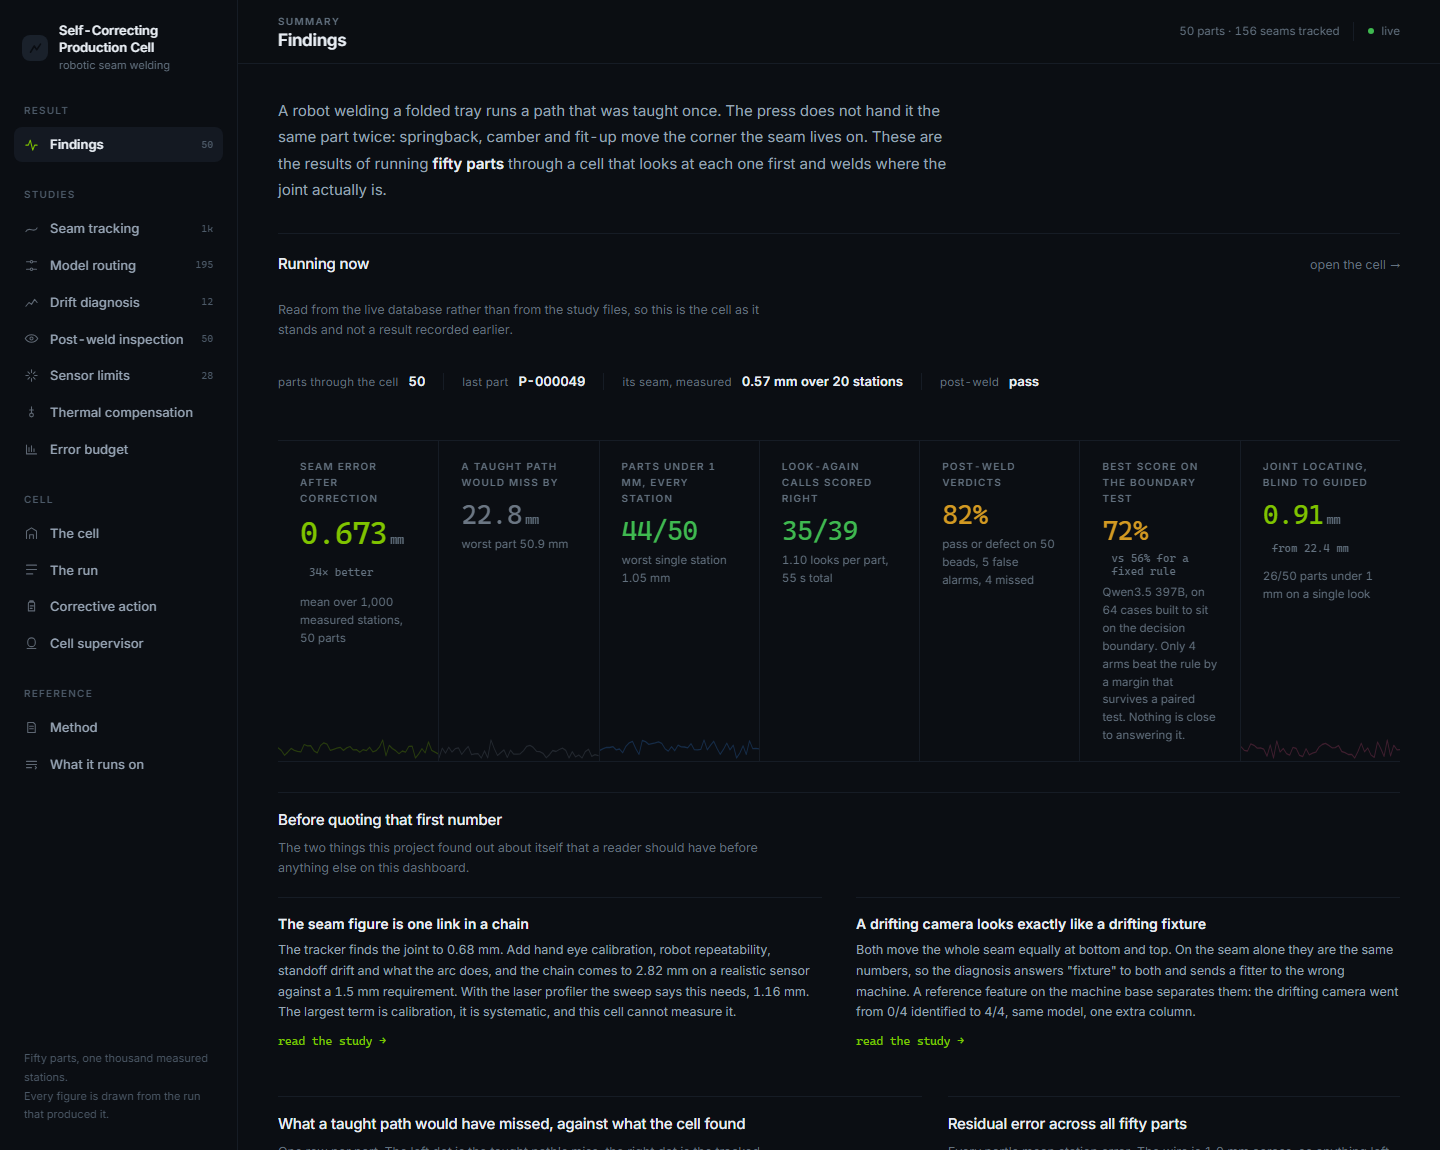
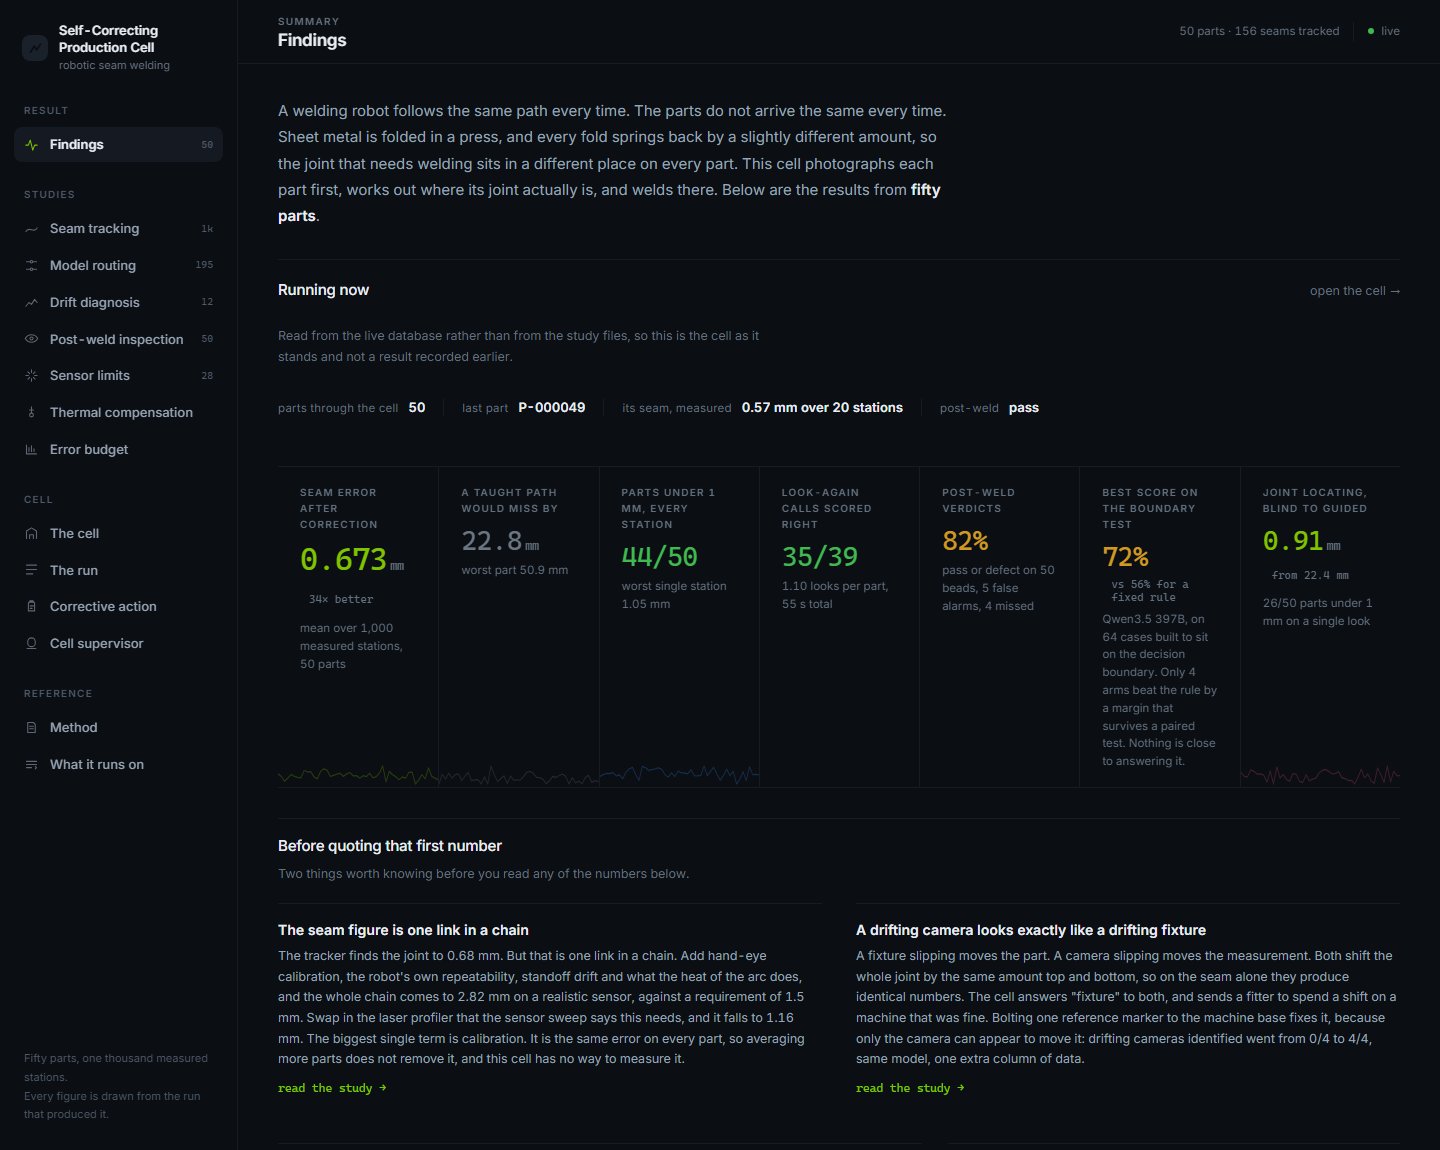
Write it in plain English instead of aphorisms
"Springback, camber and fit-up move the corner the seam lives on" is showing
off, not explaining. Three pieces of jargon in one clause, an inverted
construction, and a reader who does not already know what the project does still
does not know after reading it. Every page opened like that.

So all thirteen page introductions are rewritten to say what happens, in order,
in short sentences: a robot follows one fixed path, the parts are not identical
because folded sheet springs back differently every time, so the joint moves and
the cell photographs each part to find it. Same for the README's problem
section, which now explains the bow as its own paragraph rather than burying it
in "worse, the seam is not merely displaced, it is bent".

Thirteen card notes rewritten too, mostly the ones shaped like proverbs. "A
verdict with no reasoning attached is a verdict nobody can audit" says less than
"what each model said, in its own words".

One of them was not just obscure but broken: "With the laser profiler the sweep
says this needs, 1.16 mm" is missing a verb and has a comma where none belongs.
It had been on the summary page since the error budget went in.

No numbers changed. 276 tests, 14 pages, 36 charts, no console errors.

diff --git a/dashboard/static/pages/overview.js b/dashboard/static/pages/overview.js
@@ -57,10 +57,11 @@ function liveBand() {
 export function render() {
   return `
     <p class="lede">
-      A robot welding a folded tray runs a path that was taught once. The press does
-      not hand it the same part twice: springback, camber and fit-up move the corner
-      the seam lives on. These are the results of running <b>fifty parts</b> through a
-      cell that looks at each one first and welds where the joint actually is.
+      A welding robot follows the same path every time. The parts do not arrive the
+      same every time. Sheet metal is folded in a press, and every fold springs back by a
+      slightly different amount, so the joint that needs welding sits in a different place
+      on every part. This cell photographs each part first, works out where its joint
+      actually is, and welds there. Below are the results from <b>fifty parts</b>.
     </p>
     <div id="ov-live"></div>
     <div class="tiles" id="ov-tiles"></div>
@@ -68,8 +69,7 @@ export function render() {
     <div class="grid">
       <div class="card w12" id="bg-honest">
         <header><h2>Before quoting that first number</h2></header>
-        <div class="hint">The two things this project found out about itself that a reader
-          should have before anything else on this dashboard.</div>
+        <div class="hint">Two things worth knowing before you read any of the numbers below.</div>
         <div id="ov-caveats"></div>
       </div>
     </div>
@@ -96,8 +96,8 @@ export function render() {
 
       <div class="card w12">
         <header><h2>Every claim on this dashboard, and what it was scored against</h2></header>
-        <div class="hint">Nothing here is a demo reading of itself. Each study has a ground truth
-          that was decided before the model was asked.</div>
+        <div class="hint">Every study is scored against a correct answer that was fixed before the
+          model was asked. None of this is the cell marking its own work.</div>
         <div id="ov-studies"></div>
       </div>
     </div>`;
@@ -127,12 +127,14 @@ function caveats(ev) {
     const best = b.budgets.find((x) => x.label.startsWith("Laser"));
     cards.push([
       "The seam figure is one link in a chain",
-      `The tracker finds the joint to ${V.fmt(b.budgets[0].total_mm, 2)} mm. Add hand eye `
-      + `calibration, robot repeatability, standoff drift and what the arc does, and the `
-      + `chain comes to ${V.fmt(realistic.total_mm, 2)} mm on a realistic sensor against a `
-      + `${b.industry_requirement_mm} mm requirement. With the laser profiler the sweep says `
-      + `this needs, ${V.fmt(best.total_mm, 2)} mm. The largest term is calibration, it is `
-      + `systematic, and this cell cannot measure it.`,
+      `The tracker finds the joint to ${V.fmt(b.budgets[0].total_mm, 2)} mm. But that is `
+      + `one link in a chain. Add hand-eye calibration, the robot's own repeatability, `
+      + `standoff drift and what the heat of the arc does, and the whole chain comes to `
+      + `${V.fmt(realistic.total_mm, 2)} mm on a realistic sensor, against a requirement of `
+      + `${b.industry_requirement_mm} mm. Swap in the laser profiler that the sensor sweep `
+      + `says this needs, and it falls to ${V.fmt(best.total_mm, 2)} mm. The biggest single `
+      + `term is calibration. It is the same error on every part, so averaging more parts `
+      + `does not remove it, and this cell has no way to measure it.`,
       "#/budget",
     ]);
   }
@@ -141,11 +143,13 @@ function caveats(ev) {
   if (c && c.available) {
     cards.push([
       "A drifting camera looks exactly like a drifting fixture",
-      `Both move the whole seam equally at bottom and top. On the seam alone they are the `
-      + `same numbers, so the diagnosis answers "fixture" to both and sends a fitter to the `
-      + `wrong machine. A reference feature on the machine base separates them: the drifting `
-      + `camera went from ${c.camera_without.correct}/${c.camera_without.n} identified to `
-      + `${c.camera_with.correct}/${c.camera_with.n}, same model, one extra column.`,
+      `A fixture slipping moves the part. A camera slipping moves the measurement. Both `
+      + `shift the whole joint by the same amount top and bottom, so on the seam alone they `
+      + `produce identical numbers. The cell answers "fixture" to both, and sends a fitter `
+      + `to spend a shift on a machine that was fine. Bolting one reference marker to the `
+      + `machine base fixes it, because only the camera can appear to move it: drifting `
+      + `cameras identified went from ${c.camera_without.correct}/${c.camera_without.n} to `
+      + `${c.camera_with.correct}/${c.camera_with.n}, same model, one extra column of data.`,
       "#/budget",
     ]);
   }

diff --git a/dashboard/static/pages/inspection.js b/dashboard/static/pages/inspection.js
@@ -20,10 +20,10 @@ const DEFECT_LABEL = {
 export function render() {
   return `
     <p class="lede">
-      After the arc stops the bead is photographed and judged. The number that makes this
-      mean anything is that every defect was injected on purpose, so each verdict is scored
-      against a record written before the model saw the image. A shop cares which way the
-      mistake goes: a false alarm scraps a good part, a miss ships a bad one.
+      After the arc stops, the weld bead is photographed and judged. Every defect
+      was put there deliberately, so each verdict can be checked against a record written
+      before the model saw the picture. Two kinds of mistake matter differently: a false
+      alarm throws away a good part, and a miss ships a bad one.
     </p>
 
     <div class="tiles" id="in-tiles"></div>
@@ -38,7 +38,7 @@ export function render() {
 
       <div class="card w6">
         <header><h2>Naming the defect is harder than spotting one</h2></header>
-        <div class="hint">Both numbers are real and they are not the same claim. The cell uses the
+        <div class="hint">Both numbers are real, but they are not the same claim. The cell uses the
           pass/defect call to route a part; the named defect is advice for the person who fixes it.</div>
         <div id="in-split"></div>
         <footer id="in-split-meta"></footer>
@@ -58,8 +58,8 @@ export function render() {
       <div class="card w12">
         <header><h2>Two vision models, the same score, opposite behaviour</h2></header>
         <div class="hint">The account serves two models that can see. On these fifty beads they
-          name the same number of defects correctly. That number means completely different
-          things, which is the argument for never quoting a single accuracy figure.</div>
+          name the same number of defects correctly. The same number means very different things for each of them, which is why a
+          single accuracy figure should never be quoted on its own.</div>
         <div id="in-vision"></div>
         <footer id="in-vision-meta"></footer>
       </div>

diff --git a/dashboard/static/pages/method.js b/dashboard/static/pages/method.js
@@ -41,11 +41,11 @@ const STAGES = [
 export function render() {
   return `
     <p class="lede">
-      The problem is not that the robot is inaccurate. It is that the part is not where
-      the program says, because sheet is cut flat, folded, and springs back by an amount
-      that is not the same twice. A taught path welds air on one part and into the corner
-      on the next. Everything below exists to close that loop without touching the arm's
-      own repeatability.
+      The robot is accurate. The problem is that the part is not where the program
+      assumes it is. Sheet metal is cut flat, folded, and springs back by a slightly
+      different amount every time. A fixed taught path welds thin air on one part and into
+      the corner on the next. Everything here exists to close that gap, without touching
+      the robot's own accuracy.
     </p>
 
     <div class="grid">
@@ -56,8 +56,8 @@ export function render() {
 
       <div class="card w6">
         <header><h2>Ground truth, per study</h2></header>
-        <div class="hint">The reason any number on this dashboard means something is that the answer
-          was decided before the model was asked.</div>
+        <div class="hint">Every number on this dashboard means something only because the correct answer
+          was fixed before the model was asked.</div>
         <div id="me-truth"></div>
       </div>
 
@@ -68,8 +68,8 @@ export function render() {
 
       <div class="card w12">
         <header><h2>Does this only work for welding?</h2></header>
-        <div class="hint">Worth answering plainly, because the honest answer is neither yes nor
-          the salesman's no. What generalises is the loop. What does not is every number in it.</div>
+        <div class="hint">Worth answering plainly. The honest answer is not a simple yes, and not the flat
+          no a salesman would give. What generalises is the loop. What does not is every number in it.</div>
         <div id="me-general"></div>
         <footer id="me-general-meta"></footer>
       </div>

diff --git a/dashboard/static/pages/platform.js b/dashboard/static/pages/platform.js
@@ -94,10 +94,10 @@ const ROWS = [
 export function render() {
   return `
     <p class="lede">
-      Four Nemotron sizes are served on Token Factory and this cell uses all four,
-      for different jobs, because measuring them showed they are not interchangeable.
-      Every row below is a call the cell actually makes. The last column is the
-      measurement that decided it, not a preference.
+      Four sizes of Nemotron are served on Token Factory, and this cell uses all
+      four for different jobs, because testing showed they are not interchangeable. Every
+      row below is a call the cell actually makes. The last column is the measurement that
+      decided it, not a preference.
     </p>
 
     <div class="tiles" id="pf-tiles"></div>
@@ -105,8 +105,8 @@ export function render() {
     <div class="grid">
       <div class="card w12">
         <header><h2>Every model call this cell makes</h2></header>
-        <div class="hint">Nothing here is aspirational. If a row is on this page the code
-          calls it, and the page that measured it is linked from the findings page.</div>
+        <div class="hint">Every row is something the code actually calls, not something planned. The page
+          that measured each one is linked from Findings.</div>
         <div id="pf-table"></div>
       </div>
 
@@ -120,8 +120,8 @@ export function render() {
 
       <div class="card w6">
         <header><h2>What the platform would not do</h2></header>
-        <div class="hint">Recorded because the limits shaped the build, and because a reader
-          deciding whether to use the same platform needs them more than they need the wins.</div>
+        <div class="hint">These limits shaped what got built. Anyone deciding whether to use the same
+          platform needs to know them more than they need to hear the successes.</div>
         <div id="pf-limits"></div>
       </div>
     </div>`;

diff --git a/dashboard/static/pages/budget.js b/dashboard/static/pages/budget.js
@@ -14,13 +14,13 @@ export const meta = {
 export function render() {
   return `
     <p class="lede">
-      The seam study says the tracker finds the joint to <b>0.68 mm</b>. That is a true
-      number about one link in a chain, and quoting it as the accuracy of the cell would
-      be a misrepresentation. Published work on vision guided welding is explicit that
-      what you get depends on the whole chain: sensor, calibration, standoff, part
-      surface, robot repeatability. This repository measured two of those carefully and
-      was silent about the rest. Here is the whole thing, with the provenance of every
-      term on it.
+      The seam study says the cell finds the joint to 0.68 mm. That number is true,
+      and it covers one link in a chain. Quoting it as the accuracy of the cell would be
+      misleading. Published work on vision guided welding is clear that what you actually
+      get depends on the whole chain: the sensor, the calibration, the standoff, the part
+      surface, the robot's own repeatability. This project measured two of those carefully
+      and said nothing about the rest. Here is the whole chain, with a source for every
+      term in it.
     </p>
 
     <div class="tiles" id="bg-tiles"></div>
@@ -30,7 +30,7 @@ export function render() {
         <header><h2>The chain, under four sets of assumptions</h2></header>
         <div class="hint">Systematic terms add, because an offset that is the same on every
           part is not averaged away by making more parts. Independent random terms combine in
-          quadrature. Which of the two a term is decides whether it matters.</div>
+          quadrature. Whether a term is systematic or random decides how much it ends up mattering.</div>
         <div id="bg-chain"></div>
         <div class="legend">
           <span><i style="background:var(--series-1)"></i>measured in this repository</span>

diff --git a/dashboard/static/pages/briefs.js b/dashboard/static/pages/briefs.js
@@ -29,12 +29,12 @@ const TRIGGER_LABEL = {
 export function render() {
   return `
     <p class="lede">
-      A measurement that nobody can act on is a measurement nobody uses. When the cell
-      refuses a joint, names a drifting machine, or keeps calling the same defect, it
-      writes the question out of its own numbers, fetches the documents that answer it,
-      and turns them into steps somebody can take at a machine in the next ten minutes.
-      Every claim carries the source it came from, because an instruction an operator
-      cannot check is an instruction nobody is allowed to follow.
+      A measurement nobody can act on gets ignored. So when the cell refuses a joint,
+      names a drifting machine, or keeps reporting the same defect, it writes the question
+      out of its own numbers, searches published welding guidance for the answer, and turns
+      that into steps somebody can follow at the machine. Every statement carries a link to
+      where it came from, because an operator should not be asked to follow an instruction
+      they cannot check.
     </p>
 
     <div class="tiles" id="br-tiles"></div>
@@ -42,8 +42,9 @@ export function render() {
     <div class="grid">
       <div class="card w12">
         <header><h2>How a brief is built</h2></header>
-        <div class="hint">Three steps, each one somebody else's job. No model is asked what
-          is wrong; the measurement already says.</div>
+        <div class="hint">Three steps, each one a different job. The measurement already says what is
+          wrong, so no model is asked to diagnose. The model's job is to work out what to
+          do about it.</div>
         <div id="br-how"></div>
       </div>
 

diff --git a/dashboard/static/pages/limits.js b/dashboard/static/pages/limits.js
@@ -43,12 +43,12 @@ const AXIS_WHAT = {
 export function render() {
   return `
     <p class="lede">
-      Every seam number on this dashboard was measured on exact rendered depth, which
-      makes them ceilings rather than results. A joint finder scored on perfect input
-      has not been scored on anything. So the whole fifty-part campaign was run again
-      at each of twenty-eight sensor degradations, and the error followed until it broke.
-      The threshold was fixed before the sweep ran: the wire is <b>1.0 mm</b> across, so
-      a path further than that from the joint is not on the joint.
+      Every seam number on this dashboard was measured on perfect depth data. That
+      makes them best cases rather than results, because a joint finder tested on perfect
+      input has not really been tested. So the fifty-part run was repeated at twenty-eight
+      levels of sensor degradation, to find where it breaks. The pass mark was fixed before
+      the sweep started: the welding wire is 1.0 mm across, so a path further than that
+      from the joint misses it.
     </p>
 
     <div class="tiles" id="lm-tiles"></div>
@@ -76,8 +76,8 @@ export function render() {
 
       <div class="card w5">
         <header><h2>Whole sensors, every failure mode at once</h2></header>
-        <div class="hint">The single-axis curves are diagnostic. These are the combinations a
-          real camera actually presents.</div>
+        <div class="hint">The curves above change one thing at a time, which is what makes them useful for
+          diagnosis. These are the combinations a real camera actually produces.</div>
         <div id="lm-named"></div>
       </div>
     </div>`;

diff --git a/dashboard/static/pages/routing.js b/dashboard/static/pages/routing.js
@@ -15,11 +15,11 @@ export const meta = {
 export function render() {
   return `
     <p class="lede">
-      After the cell looks at a part it has to answer one question: is this measurement
-      good enough to weld on, or is another look worth the cycle time? The question is
-      cheap, so it goes to the smallest model first. This study asks whether that is
-      defensible, by scoring every arm against what a second look <b>actually</b> did to
-      the fit rather than against a bigger model's opinion.
+      Once the cell has photographed a part it has to decide one thing: is this
+      measurement good enough to weld on, or is it worth taking another look? Another look
+      costs cycle time. The question is cheap to ask, so it goes to the smallest model
+      first. This page tests whether that is the right call, by scoring every model against
+      what a second look actually achieved rather than against a bigger model's opinion.
     </p>
 
     <div class="tiles" id="rt-tiles"></div>
@@ -80,7 +80,8 @@ export function render() {
 
       <div class="card w6">
         <header><h2>What the model said, in its own words</h2></header>
-        <div class="hint">A verdict with no reasoning attached is a verdict nobody can audit.</div>
+        <div class="hint">What each model said, in its own words. A verdict with no reasoning attached
+          cannot be checked by anyone.</div>
         <div id="rt-reasons"></div>
       </div>
     </div>`;

diff --git a/dashboard/static/pages/seam.js b/dashboard/static/pages/seam.js
@@ -16,9 +16,10 @@ export const meta = {
 export function render() {
   return `
     <p class="lede">
-      The corner the seam runs along is not where the program says it is, and it is not
-      straight. Twenty stations are measured on every part, each from the same single
-      look, and each one is scored against the seam's true position in the cell.
+      The joint is the line where two folded panels meet. It is not where the program
+      says it is, and it is not straight. The cell measures it at twenty points along its
+      length, all from a single camera view, and each point is compared against where the
+      joint truly is.
     </p>
 
     <div class="grid">
@@ -37,8 +38,9 @@ export function render() {
 
       <div class="card w4">
         <header><h2>What is left, and why</h2></header>
-        <div class="hint">Correcting the path removes the offset. It cannot remove the bow, because
-          the seam itself is curved. The bow is the floor this method sits on.</div>
+        <div class="hint">Correcting the path removes the offset, but it cannot remove the bow, because
+          the seam itself is curved. That bow is the limit on how accurate this method
+          can get.</div>
         <div id="sm-decomp"></div>
         <footer id="sm-decomp-meta"></footer>
       </div>

diff --git a/dashboard/static/pages/compensation.js b/dashboard/static/pages/compensation.js
@@ -14,11 +14,11 @@ export const meta = {
 export function render() {
   return `
     <p class="lede">
-      The measurement is cold. The weld is not. Heat put into the bottom of the seam
-      rotates both folded sides about their fold lines, so the top of the joint walks
-      inward long before the torch reaches it. A cell that measures a point and then
-      drives to it is aiming at where that point <b>used to be</b>. So the path is
-      offset by the distortion predicted for the moment the arc arrives at each station.
+      The measurement is taken cold. The weld is not. Heat from the arc makes
+      both folded sides rotate about their fold lines, so the top of the joint moves inward
+      before the torch ever reaches it. A cell that measures a point and drives straight to
+      it is aiming at where that point used to be. So the path is shifted in advance, by
+      the amount of distortion expected at the moment the torch arrives at each point.
     </p>
 
     <div class="tiles" id="cp-tiles"></div>

diff --git a/dashboard/static/pages/diagnosis.js b/dashboard/static/pages/diagnosis.js
@@ -21,11 +21,11 @@ const SCENARIO_LABEL = {
 export function render() {
   return `
     <p class="lede">
-      Correcting each part hides the problem that made it. If the press brake is walking,
-      the cell will weld every part correctly and nobody will notice until the angle runs
-      out of correction. So the same measurements are read a second time, across a run,
-      to name the cause. This is the one question where the small model is <b>not</b> good
-      enough, and the study is here because it says so.
+      Correcting every part hides the reason they need correcting. If the press is
+      slowly going out of adjustment, the cell will keep welding parts correctly and nobody
+      finds out until it has drifted too far to correct. So the cell reads the same
+      measurements a second time, across a whole run of parts, and says which machine is at
+      fault. This is the one job the small model cannot do, and this page says so.
     </p>
 
     <div class="tiles" id="dg-tiles"></div>

diff --git a/dashboard/static/pages/supervisor.js b/dashboard/static/pages/supervisor.js
@@ -22,10 +22,10 @@ const PROMPTS = [
 export function render() {
   return `
     <p class="lede">
-      The supervisor has no private copy of anything. It answers by querying the same
-      tables this dashboard draws, and it can search published welding standards when a
-      question needs a number it should not invent. Every answer it gives can be checked
-      against a page you can open yourself.
+      The supervisor has no private copy of anything. It answers by querying the
+      same tables this dashboard draws from, and it can search published welding standards
+      when a question needs a figure it should not invent. Every answer it gives can be
+      checked against a page you can open yourself.
     </p>
 
     <div class="grid">
